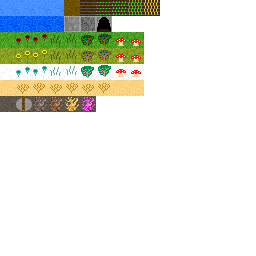
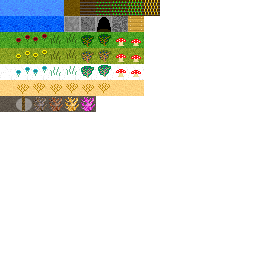
Player Placement

Changed region(s): [[0.4375, 0.0625, 0.5625, 0.125]]

diff --git a/src/player/player.cpp b/src/player/player.cpp
@@ -27,7 +27,7 @@ Player::Player() : texture(0), invSelect(0), inInventory(false) {
     ui = create_scopeptr<UI>(*this);
 
     rot = 0.0f;
-    pos = glm::vec3(1024 + 8, 0, 1024 + 8);
+    pos = glm::vec3(1032, 0, 1032);
 
     hp = base_hp = 100;
     regen = 2;
@@ -45,6 +45,8 @@ Player::Player() : texture(0), invSelect(0), inInventory(false) {
     inventory->set_slot(3, {Item::Hoe, 1});
     inventory->set_slot(4, {Item::Axe, 1});
     inventory->set_slot(5, {Item::Shovel, 1});
+
+    triggerUse = false;
 }
 
 Player::~Player() {
@@ -102,6 +104,13 @@ auto Player::update(World* wrld, double dt) -> void {
                 SFXManager::get().play(SFX_TYPE_HIT);
                 break;
             }
+            if (tool.itemID == Item::Axe && t == Tile::Wood) {
+                wrld->set_tile({ test_vec.x, test_vec.z }, Tile::Dirt);
+                wrld->eman->create_drop(test_vec, Item::Log, 1, 0);
+                energy += 5;
+                SFXManager::get().play(SFX_TYPE_HIT);
+                break;
+            }
             else if (tool.itemID == Item::Pickaxe && t == Tile::Stone) {
                 wrld->set_tile({ test_vec.x, test_vec.z }, Tile::Dirt);
                 wrld->eman->create_drop(test_vec, Item::Stone, 2, 3);
@@ -116,6 +125,13 @@ auto Player::update(World* wrld, double dt) -> void {
                 SFXManager::get().play(SFX_TYPE_HIT);
                 break;
             }
+            else if (tool.itemID == Item::Pickaxe && t == Tile::Cobblestone) {
+                wrld->set_tile({ test_vec.x, test_vec.z }, Tile::Dirt);
+                wrld->eman->create_drop(test_vec, Item::Stone, 1, 0);
+                energy += 5;
+                SFXManager::get().play(SFX_TYPE_HIT);
+                break;
+            }
             else if (tool.itemID == Item::Shovel && t == Tile::Sand) {
                 wrld->set_tile({ test_vec.x, test_vec.z }, Tile::Dirt);
                 wrld->eman->create_drop(test_vec, Item::Sand, 1, 2);
@@ -125,21 +141,21 @@ auto Player::update(World* wrld, double dt) -> void {
             }
             else if (tool.itemID == Item::Hoe && t == Tile::Grass) {
                 wrld->set_tile({ test_vec.x, test_vec.z }, Tile::Farmland);
-                wrld->eman->create_drop(test_vec, Item::Seed, 0, 1);
+                wrld->eman->create_drop(test_vec, Item::Seed, 1, 0);
                 energy += 5;
                 SFXManager::get().play(SFX_TYPE_HIT);
                 break;
             }
             else if (l == Decorations::Tallgrass) {
                 wrld->set_tile2({ test_vec.x, test_vec.z }, Decorations::None);
-                wrld->eman->create_drop(test_vec, Item::Seed, 0, 1);
+                wrld->eman->create_drop(test_vec, Item::Seed, 1, 0);
                 energy += 5;
                 SFXManager::get().play(SFX_TYPE_HIT);
                 break;
             }
             else if (l == Decorations::Flower) {
                 wrld->set_tile2({ test_vec.x, test_vec.z }, Decorations::None);
-                wrld->eman->create_drop(test_vec, Item::Seed, 0, 1);
+                wrld->eman->create_drop(test_vec, Item::Seed, 1, 0);
                 energy += 5;
                 SFXManager::get().play(SFX_TYPE_HIT);
                 break;
@@ -165,7 +181,73 @@ auto Player::update(World* wrld, double dt) -> void {
             }
         }
     }
+    if (triggerUse) {
+        triggerUse = false;
 
+        Slot& item = inventory->get_slot(invSelect);
+        if (item.itemID == Item::Berries) {
+            hp += 10;
+            item.count -= 1;
+        }
+        else if (item.itemID == Item::Bread) {
+            hp += 20;
+            item.count -= 1;
+        }
+        else if (item.itemID == Item::GoldenApple) {
+            hp += 100;
+            item.count -= 1;
+        }
+        else {
+            //Try place
+            glm::vec3 norm_vec(-1.0f, 0.0f, 0.0f);
+
+            if (facing) {
+                norm_vec = glm::rotateY(norm_vec, degtorad(rot + 180.0f));
+            }
+            else {
+                norm_vec = glm::rotateY(norm_vec, degtorad(rot));
+            }
+
+            for (int i = 0; i < 50; i++) {
+                auto test_vec = pos;
+                test_vec += norm_vec * (float)i / 25.0f;
+
+                if ((int)test_vec.x == (int)pos.x && (int)test_vec.z == (int)pos.z)
+                    continue;
+
+                auto t = (int)wrld->get_tile({ test_vec.x, test_vec.z });
+                auto l = (int)wrld->get_tile2({ test_vec.x, test_vec.z });
+
+                if (l != 0)
+                    continue;
+
+                if (item.itemID == Item::Seed && t == Tile::Farmland) {
+                    wrld->set_tile({ test_vec.x, test_vec.z }, Tile::Farmland1);
+                    item.count -= 1;
+                    break;
+                }
+                else if (item.itemID == Item::Log && (t == Tile::Sand || t == Tile::Water_Light || t == Tile::Dirt || t == Tile::Grass)) {
+                    wrld->set_tile({ test_vec.x, test_vec.z }, Tile::Wood);
+                    item.count -= 1;
+                    break;
+                }
+                else if (item.itemID == Item::Stone && (t == Tile::Sand || t == Tile::Water_Light || t == Tile::Dirt || t == Tile::Grass)) {
+                    wrld->set_tile({ test_vec.x, test_vec.z }, Tile::Cobblestone);
+                    item.count -= 1;
+                    break;
+                }
+                else if (item.itemID == Item::Sand && (t == Tile::Water_Heavy)) {
+                    wrld->set_tile({ test_vec.x, test_vec.z }, Tile::Water_Light);
+                    item.count -= 1;
+                    break;
+                }
+            }
+
+        }
+
+        if (item.count == 0)
+            item.itemID = Item::None;
+    }
     character->update(dt);
 
     float len = sqrtf(acc.x * acc.x + acc.z * acc.z);

diff --git a/src/state.cpp b/src/state.cpp
@@ -39,7 +39,8 @@ auto GameState::on_start() -> void {
     key_controller->add_command({ (int)Input::Keys::C, KeyFlag::Press }, { Player::invScrollR, player.get() });
     key_controller->add_command({ (int)Input::Keys::Enter, KeyFlag::Press }, { World::save_game, world.get() });
 
-    mouse_controller->add_command({(int)Input::MouseButtons::Left, KeyFlag::Press}, {Player::hit, player.get()});
+    mouse_controller->add_command({ (int)Input::MouseButtons::Left, KeyFlag::Press }, { Player::hit, player.get() });
+    mouse_controller->add_command({ (int)Input::MouseButtons::Right, KeyFlag::Press }, { Player::use, player.get() });
 
     Input::add_controller(psp_controller);
     Input::add_controller(key_controller);

diff --git a/src/world/chunk.cpp b/src/world/chunk.cpp
@@ -55,9 +55,13 @@ auto get_tile_data(uint8_t id, uint8_t biome) -> TileData {
     case Tile::Stone:
         return {20, 1};
     case Tile::Stone_Coal:
-        return {21, 1};
+        return { 21, 1 };
     case Tile::Cave_Entrance:
         return {22, 1};
+    case Tile::Cobblestone:
+        return { 23, 1 };
+    case Tile::Wood:
+        return { 24, 1 };
     case Tile::Grass_Mushroom:
         return {static_cast<u8>(biome * 16 + 32 + 7), 2};
 

diff --git a/src/world/world.cpp b/src/world/world.cpp
@@ -1,6 +1,7 @@
 #include "world.hpp"
 #include "noiseutil.hpp"
 #include <cstdio>
+#include <filesystem>
 
 auto World::load(FILE* fptr) {
     if (fptr == NULL)
@@ -110,6 +111,7 @@ World::World(RefPtr<Player> player) {
         update_chunks();
 
         fptr = fopen("savedata.dat", "wb");
+        std::filesystem::create_directory("world");
         save(fptr);
     }
     else {

diff --git a/src/entity/entityman.cpp b/src/entity/entityman.cpp
@@ -125,7 +125,10 @@ auto EntityManager::create_drop(glm::vec3 pos, uint8_t item, uint16_t count, uin
         return;
 
     srand(time(NULL) + icount);
-    uint16_t r = rand() % random;
+    uint16_t r = 0;
+    if (random != 0) {
+        r = rand() % random;
+    }
     uint16_t cnt = count + r;
 
     if (cnt > 0) {

diff --git a/src/player/player.hpp b/src/player/player.hpp
@@ -42,12 +42,14 @@ public:
 	static auto toggle_inv(std::any a) -> void;
 
 	static auto hit(std::any a) -> void;
+	static auto use(std::any a) -> void;
 
 	float rot;
 	RefPtr<Inventory> inventory;
 	bool inInventory;
 private:
 	bool triggerHit;
+	bool triggerUse;
 	bool facing;
 	bool swing;
 	float swingTimer;

diff --git a/src/player/playeraction.cpp b/src/player/playeraction.cpp
@@ -130,3 +130,13 @@ auto Player::hit(std::any a) -> void {
         }
     }
 }
+
+auto Player::use(std::any a) -> void {
+    Player* p = std::any_cast<Player*>(a);
+
+    if (p != nullptr) {
+        if (!p->inInventory) {
+            p->triggerUse = true;
+        }
+    }
+}

diff --git a/src/world/chunk.hpp b/src/world/chunk.hpp
@@ -23,10 +23,10 @@ class Chunk final {
 
     uint8_t tiles[256];
     uint8_t layer2[256];
+    uint8_t biome[256];
   private:
     uint32_t lightLevel;
     int cX, cY;
-    uint8_t biome[256];
     ScopePtr<G2D::AnimatedTilemap> tmap;
     ScopePtr<G2D::Sprite> flora[16];
 };

diff --git a/src/world/tiles.hpp b/src/world/tiles.hpp
@@ -25,6 +25,8 @@ namespace Tile {
     const uint8_t Farmland2 = 20;
     const uint8_t Farmland3 = 21;
     const uint8_t Farmland4 = 22;
+    const uint8_t Cobblestone = 23;
+    const uint8_t Wood = 24;
 }
 
 namespace Biome {
